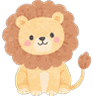
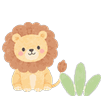
動物園のライオンを少し小さくして、右下に草を戻す

diff --git a/sw.js b/sw.js
@@ -1,5 +1,5 @@
 // アプリの見た目部分だけをキャッシュする。データと写真はSupabaseから毎回取得する。
-const CACHE = 'gohan-v66';
+const CACHE = 'gohan-v67';
 const ASSETS = [
   './',
   './index.html',

diff --git a/CLAUDE.md b/CLAUDE.md
@@ -264,7 +264,7 @@ SupabaseのRow Level Securityで実装する：
     「記録する」と週の並びのあいだとカードどうしのすきまにも小さな動物（zoo-gap*.png）。
     幅481px以上の広い画面だけ、全体に散らした壁紙（zoo-bg.png）にする
     - ガチャのアイコンが出ている人は .toolbar-deco の空きが88pxしかない。
-      zoo-toolbar.png（ライオンだけ。ベルが増えて狭くなったので草は外した）と aquarium-toolbar.png はそこに収まる約176px（表示88px）で作ってある。はしで動物が切れるため。水族館はカメの右に小さめのクマノミを少しあけて置き、その上に泡を2つ入れてある
+      zoo-toolbar.png（ベルが増えて狭くなったので、小さめのライオンの右下に草を寄せた）と aquarium-toolbar.png はそこに収まる約176px（表示88px）で作ってある。はしで動物が切れるため。水族館はカメの右に小さめのクマノミを少しあけて置き、その上に泡を2つ入れてある
     - 壁紙は上の帯（表示95pxぶん）を草だけにして、タイトルや「◯◯さんとして記録中」の
       後ろに動物が来ないようにしてある。重なると字が読みにくい
     - 水族館と動物園は置き場所が同じなので、CSSは大きさ・位置をまとめて書き、
